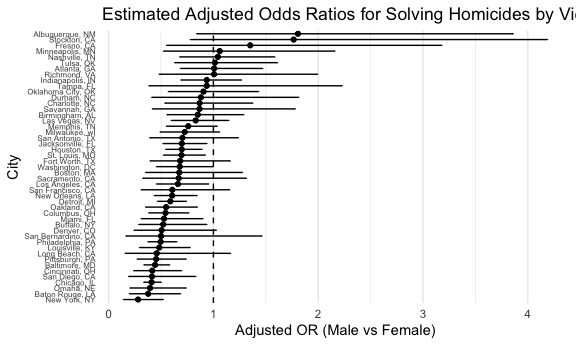
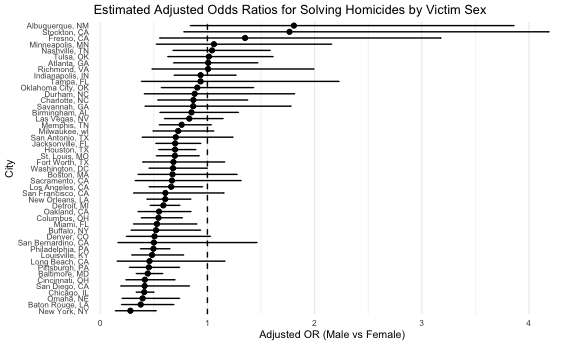
update

diff --git a/p8105_hw6_zx2527.md b/p8105_hw6_zx2527.md
@@ -96,7 +96,7 @@ ggplot(city_glm_results,
     y = "Adjusted OR (Male vs Female)",
     title = "Estimated Adjusted Odds Ratios for Solving Homicides by Victim Sex"
   )+
-  theme_minimal(base_size = 11) +
+  theme_minimal(base_size = 8) +
   theme(
     axis.text.y = element_text(size = 6),  
     panel.grid.major.y = element_blank()   
